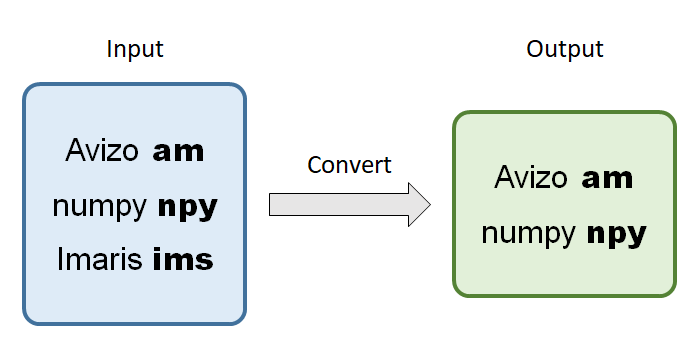
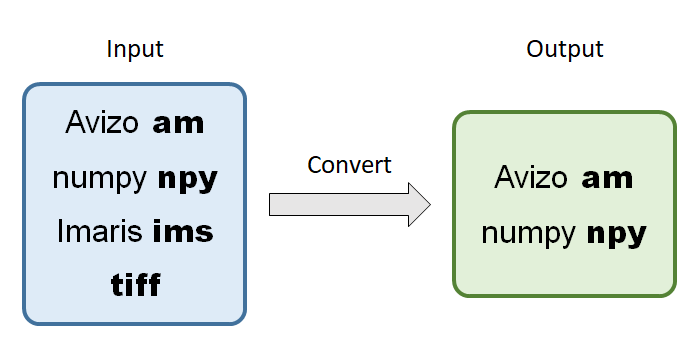
Add supported source file type tiff
- Add tiff as supported source file
- Delete BRCCIC.ipynb file

Changed region(s): [[0.06, 0.4857, 0.33, 0.8571], [0.09, 0.3143, 0.3, 0.4571]]

diff --git a/BRCCIC.py b/BRCCIC.py
@@ -6,6 +6,7 @@ import glob
 import sys
 import numpy as np
 import h5py
+import tifffile
 import datetime
 import argparse
 
@@ -13,7 +14,7 @@ def parse_args():
     arg_parser = argparse.ArgumentParser()
     arg_parser.add_argument('input',  type=str, help='Path of input image file or folder.')
     arg_parser.add_argument('format', type=str, help='Output file format.')
-    arg_parser.add_argument('-o', '--output', type=str, default='./', help='Path of output folder, default same as this script.')
+    arg_parser.add_argument('-o', '--output', type=str, default='./', help='Path of output folder, generate if not exist. Default same as this script.')
     parsed = arg_parser.parse_args()
     return parsed.input, parsed.format, parsed.output
 
@@ -27,13 +28,11 @@ def adjust_input_path(input_path):
         sys.exit(f'Error: False input path "{input_path}"')
 
 def sort_paths_by_ext(path_list, target_ext_list):
-    #filtered_path = []
     ext_di = dict(zip(target_ext_list, [[] for x in target_ext_list]))
     for i in range(len(path_list)):
         name, ext = os.path.splitext(path_list[i])
         trimmed_ext = ext.strip('.').lower()
         if trimmed_ext in target_ext_list:
-            #filtered_path.append(path_list[i])
             ext_di[trimmed_ext].append(path_list[i])
     return ext_di
 
@@ -149,9 +148,25 @@ class BRCCIC:
         except ValueError:
             img_ar = np.array(list(map(float, temp_img_li))).reshape((metadata_di['lattice_z'], metadata_di['lattice_y'], metadata_di['lattice_x']))
         return img_ar, metadata_di
+
+    def tiff_to_arr(self, path_tiff):
+        ### Read file
+        img_ar = tifffile.imread(path_tiff)
+        ### Generate dummy metadata
+        metadata_di = {}
+        metadata_di['bbox_x_max'] = np.shape(img_ar)[2] - 1
+        metadata_di['bbox_x_min'] = 0
+        metadata_di['bbox_y_max'] = np.shape(img_ar)[1] - 1
+        metadata_di['bbox_y_min'] = 0
+        metadata_di['bbox_z_max'] = np.shape(img_ar)[0] - 1
+        metadata_di['bbox_z_min'] = 0
+        metadata_di['lattice_x'] = np.shape(img_ar)[2]
+        metadata_di['lattice_y'] = np.shape(img_ar)[1]
+        metadata_di['lattice_z'] = np.shape(img_ar)[0]
+        return img_ar, metadata_di
     
-    def arr_to_npy(self, path_output):
-        np.save(path_output, self.img_ar)
+    def arr_to_npy(self, path_output, dtype):
+        np.save(path_output, self.img_ar.astype(dtype))
         
     def judge_am_datatype(self):
         self.ar_min = self.img_ar.min()
@@ -184,12 +199,14 @@ class BRCCIC:
             self.img_ar, self.metadata_di = self.npy_to_arr(self.path)
         elif self.input_ext == 'am':
             self.img_ar, self.metadata_di = self.am_to_arr(self.path)
+        elif self.input_ext == 'tif' or self.input_ext == 'tiff':
+            self.img_ar, self.metadata_di = self.tiff_to_arr(self.path)
         else:
             sys.exit(f'Error: False input extension "{self.ext}"')
         self.dtype = str(self.img_ar.dtype)
         #return self.img_ar, self.metadata_di
     
-    def convert(self, path_output_folder, output_fn=None):
+    def convert(self, path_output_folder, output_fn=None, dtype='uint16'):
         if not output_fn:
             output_fn = self.output_fn
         self.path_output = os.path.join(path_output_folder, output_fn)
@@ -198,14 +215,14 @@ class BRCCIC:
             duplicate += 1
             self.path_output = os.path.join(path_output_folder, self.output_name + f'_{duplicate}.' + self.output_ext)
         if self.output_ext == 'npy':
-            self.arr_to_npy(self.path_output)
+            self.arr_to_npy(self.path_output, dtype=dtype)
         elif self.output_ext == 'am':
             self.arr_to_am(self.path_output)
         else:
             sys.exit(f'Error: False output extension "{self.ext}"')
 
 if __name__=='__main__':
-    input_file_extension = ['npy', 'ims', 'am']
+    input_file_extension = ['npy', 'ims', 'am', 'tiff', 'tif']
     input_path, convert_to, output_folder = parse_args()
     input_path = os.path.abspath(input_path)
     output_folder = os.path.abspath(output_folder)

diff --git a/README.md b/README.md
@@ -1,22 +1,11 @@
 # BRCCIC
-A easy python image conversion script which helps you convert 3D image files such as Avizo `*.am` file, numpy `*.npy` array file and Imaris `*.ims` file to *.am and *.npy file format. Bounding box information will also be kept during conversion excluding *.npy format.
+A easy python image conversion script which helps you convert 3D image files such as Avizo `*.am` files, numpy `*.npy` array files, Imaris `*.ims` files and `*.tiff` files to `*.am` and `*.npy` file format. Bounding box information will also be kept during conversion excluding *.npy format.
 
 BRCCIC stands for Brain Reseach Center[^1] Common Image Converter.
 
 ![Conversion format](img_00.png)
 
 ## How to use
-
-### Jupyter Notebook
-
-In BRCCIC.ipynb, input parameters in to the parameter cell and run.
-```
-input_path = ''      # Input path can be a file or a folder
-convert_to = ''      # Output file format. Now support 'npy' and 'am'
-output_folder = ''   # File output destination
-```
-
-### Command line input *.py
 
 Run BRCCIC.py in command line.
 ```
